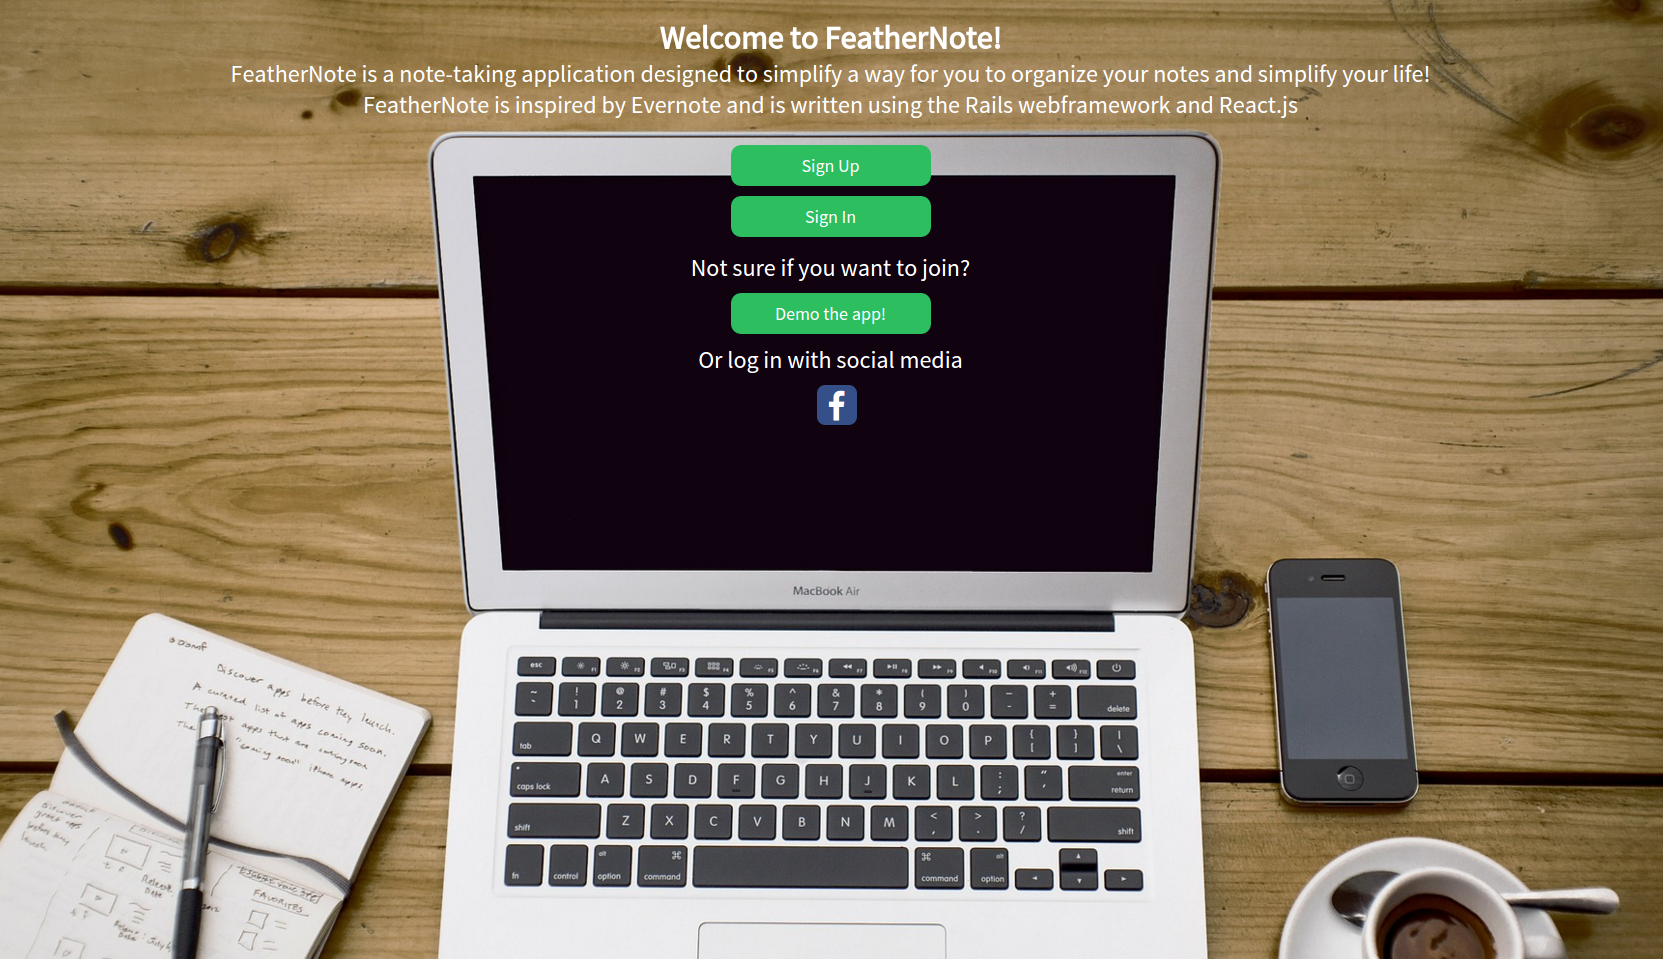
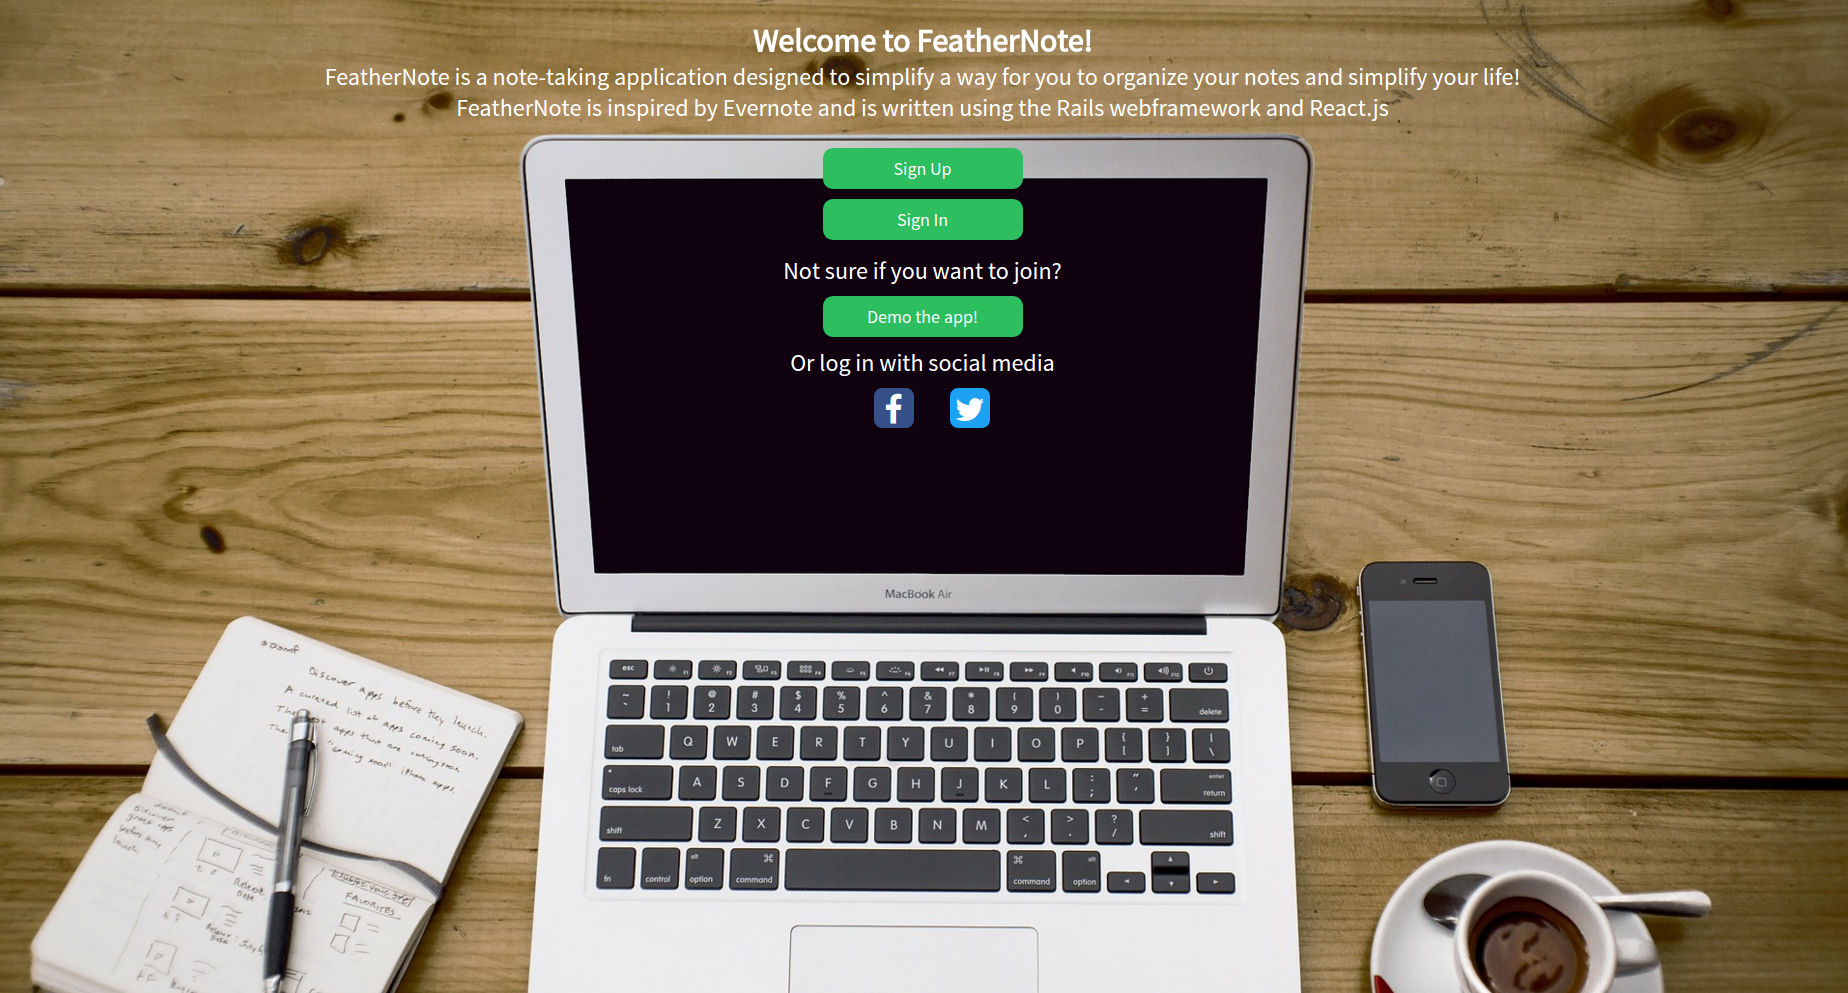
Condensed Portfolio descriptions and changed FeatherNote screenshot

diff --git a/index.html b/index.html
@@ -219,9 +219,9 @@
           </a>
           </p>
 				<p><more>
-          FeatherNote is a single-page web application inspired by Evernote. Users can
+          A single-page web application inspired by Evernote. Users can
           take notes, style their notes using a rich-text editor, and organize notes into notebooks.
-          OmniAuth is also integrated to allow users to log in with Facebook.
+          OmniAuth is also integrated to allow users to log in with Facebook or Twitter.
           <br/>
           <ul class="portfolio-links group">
             <li class="portfolio-link">
@@ -249,10 +249,8 @@
 					<p><more>
             As a passion project, I developed a single-page web application designed for
             barbershops to schedule and manage their appointments.
-            The application provides a comprehensive view of scheduled appointments,
-            along with an intuitive view of customer data. This data enhances
-            customer relations by allowing stylists to gain more
-            knowledge about their customers.
+            The application provides a comprehensive view of appointments,
+            along with an intuitive view of customer data.
             <br/>
             <ul class="portfolio-links group">
               <li class="portfolio-link">
@@ -262,36 +260,6 @@
             <br/>
 					</p>
 				</div>
-
-        <!-- <div class="col-lg-6 col-lg-offset-3">
-					<div class="screenshot-container">
-            <a href="http://cbonaco1.github.io/dino_jump" target="_blank" class="portfolio-hover"></a>
-            <img class="img-responsive portfolio-screenshot" src="assets/img/screenshots/dino_jump.png" alt="">
-          </div>
-				</div> -->
-				<!-- <div class="col-lg-3">
-						<p><a href="http://cbonaco1.github.io/dino_jump" target="_blank">
-              DinoJump
-            </a>
-            </p>
-					<p><more>
-            DinoJump is a browser game based on Google Chrome's
-            "Unable to connect to the Internet" game. The object of the game is
-            to navigate the dinosaur over the obstacles. User interactions trigger
-            CSS animations which make the dinosaur jump.
-            <br/>
-            <ul class="portfolio-links group">
-              <li class="portfolio-link">
-                <a href="http://cbonaco1.github.io/dino_jump" target="_blank">Live</a>
-              </li>
-              <li class="portfolio-link"> | </li>
-              <li class="portfolio-link">
-                <a href="https://github.com/cbonaco1/dino_jump/tree/gh-pages" target="_blank">GitHub</a>
-              </li>
-            </ul>
-            <br/>
-					</p>
-				</div> -->
 
         <div class="col-lg-6 col-lg-offset-3">
 					<div class="screenshot-container">
@@ -304,12 +272,10 @@
               ActiveRecord Lite
             </a></p>
 					<p><more>
-            While at App Academy, I wrote a custom version of an ORM (Object Relational Mapping).
-            This ORM was designed to have features similar to the ActiveRecord ORM used
-            in the Ruby on Rails web framework. I completed this project in order to gain a better understanding
-            of how ActiveRecord and ORMs operate. Below please find a link to
-            the GitHub repository for this project.
-            <br/>
+            A custom version of an ORM (Object Relational Mapping),
+            designed to have features similar to the ActiveRecord ORM used
+            in Rails. I completed this project in order to gain a better understanding
+            of how ActiveRecord and ORMs operate.
             <ul class="portfolio-links group">
               <li class="portfolio-link">
                 <a href="https://github.com/cbonaco1/custom_active_record" target="_blank">GitHub</a>
